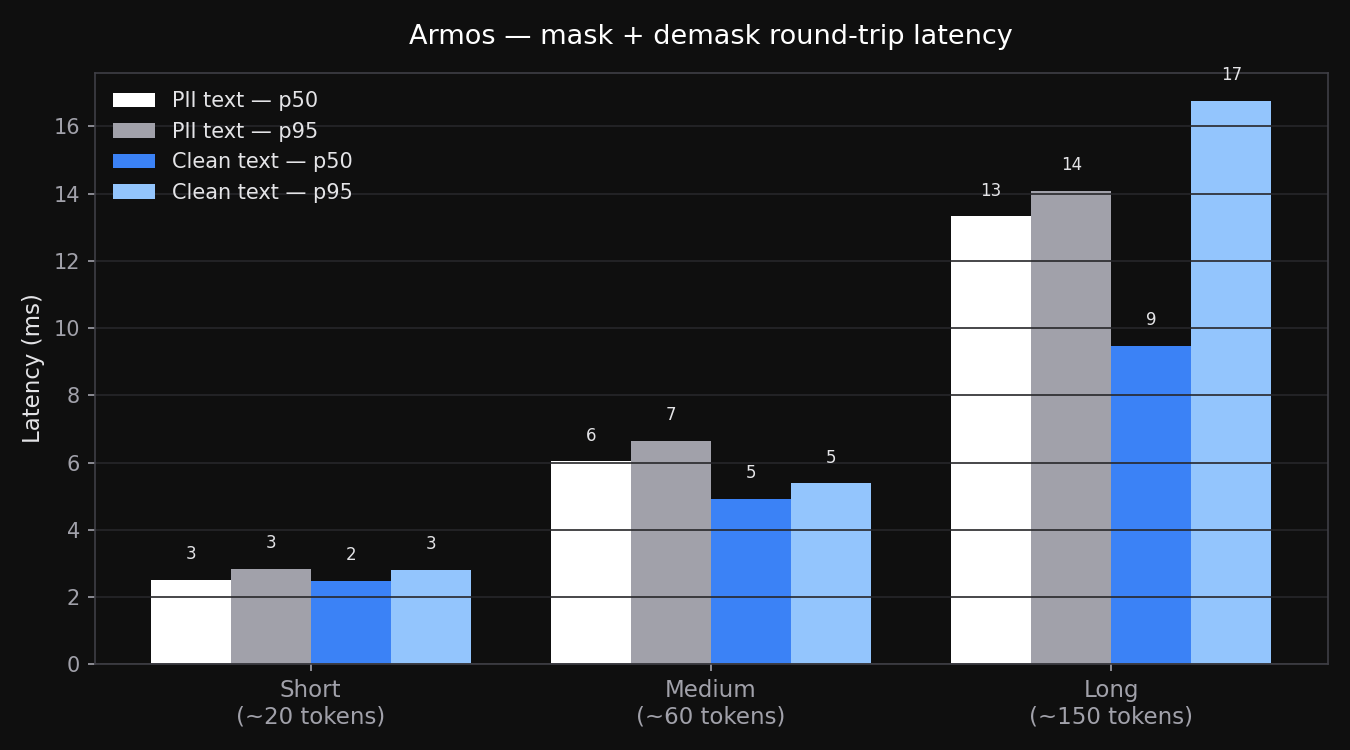
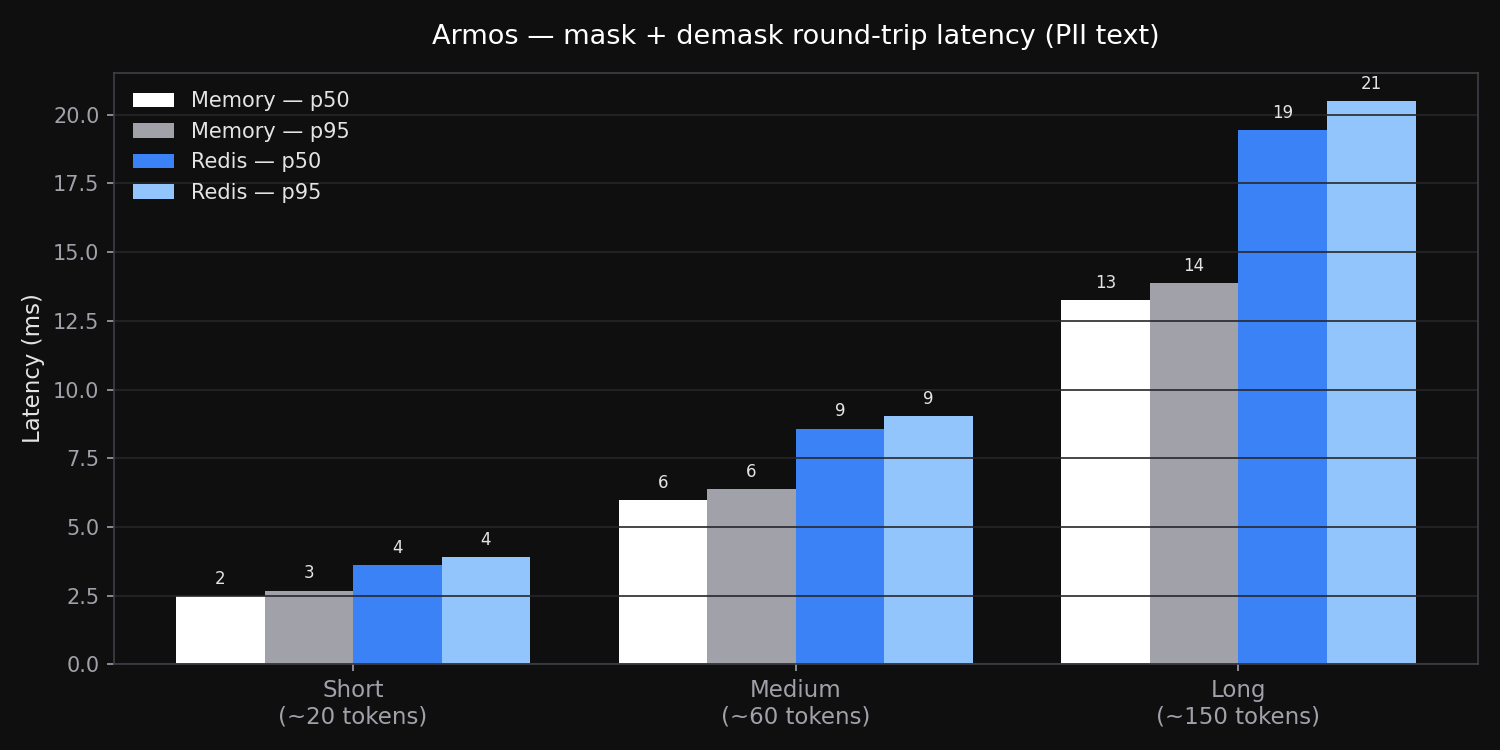
bench(benchmarks): add Memory vs Redis latency comparison and update README

diff --git a/benchmarks/run_benchmark.py b/benchmarks/run_benchmark.py
@@ -1,6 +1,6 @@
 """
 Armos latency benchmark.
-Measures mask() + demask() across text sizes and PII densities.
+Measures mask() + demask() across text sizes for MemoryVault and RedisVault.
 Outputs assets/benchmark.png for the README.
 """
 import time
@@ -13,108 +13,110 @@ sys.path.insert(0, os.path.join(os.path.dirname(__file__), "..", "src"))
 import matplotlib
 matplotlib.use("Agg")
 import matplotlib.pyplot as plt
-import matplotlib.patches as mpatches
 
 from armos import Armos
 
 RUNS = 50
+REDIS_URL = "redis://localhost:6379"
 
 SAMPLES = {
-    "Short\n(~20 tokens)": (
-        "Patient John Smith, email [email redacted].",
-        "The weather is nice today in Mumbai.",
-    ),
+    "Short\n(~20 tokens)": "Patient John Smith, email [email redacted].",
     "Medium\n(~60 tokens)": (
         "Dear Dr. Patel, patient Priya Sharma (Aadhaar 2345 6789 0123, PAN ABCDE1234F) "
-        "called from [phone redacted] regarding her appointment on 12/04/1982.",
-        "The quarterly report shows strong growth across all three business units. "
-        "Revenue increased by 23% compared to the previous year with no anomalies detected.",
+        "called from [phone redacted] regarding her appointment on 12/04/1982."
     ),
     "Long\n(~150 tokens)": (
         "PATIENT RECORD — John Smith (DOB 15/06/1978), email [email redacted], "
         "phone [phone redacted]. Aadhaar: [phone redacted]. PAN: ABCDE1234F. "
         "Credit card ending 4111 1111 1111 1111. Referred by Dr. Anjali Mehta "
         "([email redacted]). Secondary contact: Jane Smith at [email redacted], "
-        "Aadhaar 9876 5432 1098. IP logged: 192.168.1.100. API key: sk-abc123xyz456.",
-        "The engineering team completed the migration of all three microservices to the "
-        "new Kubernetes cluster. Deployment pipelines were updated and all integration "
-        "tests passed. The infrastructure team confirmed that auto-scaling policies are "
-        "in place and the monitoring dashboards have been updated to reflect the new "
-        "service topology. No regressions were observed during the rollout window.",
+        "Aadhaar 9876 5432 1098. IP logged: 192.168.1.100. API key: sk-abc123xyz456."
     ),
 }
 
 
-def measure(fn, runs=RUNS):
+def measure(guard, text, runs=RUNS):
     times = []
     for _ in range(runs):
         t0 = time.perf_counter()
-        fn()
+        result = guard.mask(text)
+        guard.demask(result.text)
         times.append((time.perf_counter() - t0) * 1000)
     return statistics.median(times), statistics.quantiles(times, n=20)[-1]  # p50, p95
 
 
 def run():
-    guard_pii = Armos()
-    guard_clean = Armos()
+    guard_mem = Armos()
+    try:
+        guard_redis = Armos(store="redis", redis_url=REDIS_URL)
+        redis_available = True
+    except Exception as e:
+        print(f"Redis unavailable: {e}")
+        redis_available = False
 
     labels = list(SAMPLES.keys())
-    pii_p50, pii_p95 = [], []
-    clean_p50, clean_p95 = [], []
+    mem_p50, mem_p95 = [], []
+    redis_p50, redis_p95 = [], []
 
-    for label, (pii_text, clean_text) in SAMPLES.items():
+    for label, text in SAMPLES.items():
         # warm up
         for _ in range(5):
-            r = guard_pii.mask(pii_text)
-            guard_pii.demask(r.text)
+            r = guard_mem.mask(text)
+            guard_mem.demask(r.text)
 
-        p50, p95 = measure(lambda t=pii_text: (lambda r: guard_pii.demask(r.text))(guard_pii.mask(t)))
-        pii_p50.append(p50)
-        pii_p95.append(p95)
+        p50, p95 = measure(guard_mem, text)
+        mem_p50.append(p50)
+        mem_p95.append(p95)
 
-        p50c, p95c = measure(lambda t=clean_text: (lambda r: guard_clean.demask(r.text))(guard_clean.mask(t)))
-        clean_p50.append(p50c)
-        clean_p95.append(p95c)
+        if redis_available:
+            for _ in range(5):
+                r = guard_redis.mask(text)
+                guard_redis.demask(r.text)
+            p50r, p95r = measure(guard_redis, text)
+            redis_p50.append(p50r)
+            redis_p95.append(p95r)
 
-    print("\n=== Armos Latency Benchmark (mask + demask round-trip) ===")
-    print(f"{'Text size':<22} {'PII p50':>10} {'PII p95':>10} {'Clean p50':>12} {'Clean p95':>12}")
+    print("\n=== Armos Latency Benchmark (mask + demask round-trip, PII text) ===")
+    print(f"{'Text size':<22} {'Mem p50':>10} {'Mem p95':>10} {'Redis p50':>12} {'Redis p95':>12}")
     print("-" * 68)
     for i, label in enumerate(labels):
         clean_label = label.replace("\n", " ")
-        print(f"{clean_label:<22} {pii_p50[i]:>9.1f}ms {pii_p95[i]:>9.1f}ms {clean_p50[i]:>11.1f}ms {clean_p95[i]:>11.1f}ms")
+        rp50 = f"{redis_p50[i]:>11.1f}ms" if redis_available else "        n/a"
+        rp95 = f"{redis_p95[i]:>11.1f}ms" if redis_available else "        n/a"
+        print(f"{clean_label:<22} {mem_p50[i]:>9.1f}ms {mem_p95[i]:>9.1f}ms {rp50} {rp95}")
 
     # --- chart ---
-    fig, ax = plt.subplots(figsize=(9, 5))
+    fig, ax = plt.subplots(figsize=(10, 5))
     fig.patch.set_facecolor("#0f0f0f")
     ax.set_facecolor("#0f0f0f")
 
     x = range(len(labels))
     w = 0.2
 
-    colors = {"pii_p50": "#ffffff", "pii_p95": "#a1a1aa", "clean_p50": "#3b82f6", "clean_p95": "#93c5fd"}
+    bar_mem_p50   = ax.bar([i - 1.5*w for i in x], mem_p50,   width=w, color="#ffffff", label="Memory — p50")
+    bar_mem_p95   = ax.bar([i - 0.5*w for i in x], mem_p95,   width=w, color="#a1a1aa", label="Memory — p95")
 
-    bars = [
-        ax.bar([i - 1.5*w for i in x], pii_p50,   width=w, color=colors["pii_p50"],  label="PII text — p50"),
-        ax.bar([i - 0.5*w for i in x], pii_p95,   width=w, color=colors["pii_p95"],  label="PII text — p95"),
-        ax.bar([i + 0.5*w for i in x], clean_p50, width=w, color=colors["clean_p50"], label="Clean text — p50"),
-        ax.bar([i + 1.5*w for i in x], clean_p95, width=w, color=colors["clean_p95"], label="Clean text — p95"),
-    ]
+    if redis_available:
+        bar_redis_p50 = ax.bar([i + 0.5*w for i in x], redis_p50, width=w, color="#3b82f6", label="Redis — p50")
+        bar_redis_p95 = ax.bar([i + 1.5*w for i in x], redis_p95, width=w, color="#93c5fd", label="Redis — p95")
+        all_bars = [bar_mem_p50, bar_mem_p95, bar_redis_p50, bar_redis_p95]
+    else:
+        all_bars = [bar_mem_p50, bar_mem_p95]
 
     ax.set_xticks(list(x))
     ax.set_xticklabels(labels, color="#e4e4e7", fontsize=11)
     ax.set_ylabel("Latency (ms)", color="#e4e4e7", fontsize=11)
-    ax.set_title("Armos — mask + demask round-trip latency", color="#ffffff", fontsize=13, pad=14)
+    ax.set_title("Armos — mask + demask round-trip latency (PII text)", color="#ffffff", fontsize=13, pad=14)
     ax.tick_params(colors="#a1a1aa")
     ax.spines[:].set_color("#3f3f46")
     ax.yaxis.label.set_color("#e4e4e7")
     ax.legend(framealpha=0, labelcolor="#e4e4e7", fontsize=10)
     ax.grid(axis="y", color="#27272a", linewidth=0.8)
 
-    # value labels on bars
-    for bar_group in bars:
+    for bar_group in all_bars:
         for bar in bar_group:
             h = bar.get_height()
-            ax.text(bar.get_x() + bar.get_width() / 2, h + 0.5, f"{h:.0f}",
+            ax.text(bar.get_x() + bar.get_width() / 2, h + 0.3, f"{h:.0f}",
                     ha="center", va="bottom", color="#e4e4e7", fontsize=8)
 
     plt.tight_layout()

diff --git a/README.md b/README.md
@@ -187,13 +187,13 @@ Detection and masking run entirely in-process with no network calls. Benchmarked
 
 ![Armos latency benchmark](assets/benchmark.png)
 
-| Text size | PII — p50 | PII — p95 | Clean — p50 | Clean — p95 |
-|-----------|-----------|-----------|-------------|-------------|
-| Short (~20 tokens) | 2.5 ms | 2.8 ms | 2.5 ms | 2.8 ms |
-| Medium (~60 tokens) | 6.0 ms | 6.6 ms | 4.9 ms | 5.4 ms |
-| Long (~150 tokens) | 13.3 ms | 14.1 ms | 9.5 ms | 16.8 ms |
+| Text size | Memory — p50 | Memory — p95 | Redis — p50 | Redis — p95 |
+|-----------|-------------|-------------|------------|------------|
+| Short (~20 tokens) | 2.5 ms | 2.7 ms | 3.6 ms | 3.9 ms |
+| Medium (~60 tokens) | 6.0 ms | 6.4 ms | 8.6 ms | 9.0 ms |
+| Long (~150 tokens) | 13.3 ms | 13.9 ms | 19.4 ms | 20.5 ms |
 
-Overhead is negligible relative to LLM response times (typically 500 ms–5 s).
+Redis overhead is the localhost round-trip cost (~1–2 ms per vault operation). Both are negligible relative to LLM response times (typically 500 ms–5 s).
 
 ---
 